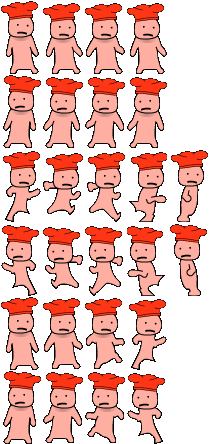
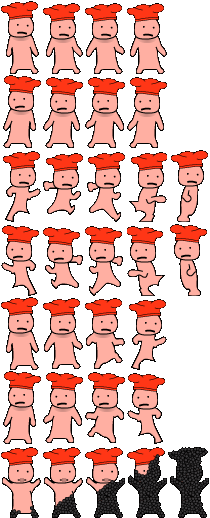
fire death animation

diff --git a/src/cakewalk/PlayerObject.ts b/src/cakewalk/PlayerObject.ts
@@ -204,6 +204,12 @@ export class PlayerObject extends MainGameSprite implements IRectCollider, IPhys
 
     this._inDeathState = true;
     if (reason != null) {
+      if(reason == 'fire'){
+        this.animate('burn')
+        var tw : Tween;
+        TweenManager.instance.add(tw = new Tween(this)
+          .animate(new TweenParam(TweenAttributeType.Alpha, 1.0, 0.0, this.respawnTime - 0.5, TweenFunctionType.Linear)));
+      }
       // TODO death animation
     } else {
       // temporary fade-out death tween

diff --git a/src/cakewalk/Flame.ts b/src/cakewalk/Flame.ts
@@ -71,7 +71,7 @@ export class Flame extends MainGameSprite implements IAnimatedSprite {
         } else {
           // different color -> flame puts out player
           SoundManager.instance.playFX(this.gameSoundEffects[0]);
-          player.respawn();
+          player.respawn('fire');
           SoundManager.instance.playFX(this.gameSoundEffects[10]);
         }
       }
